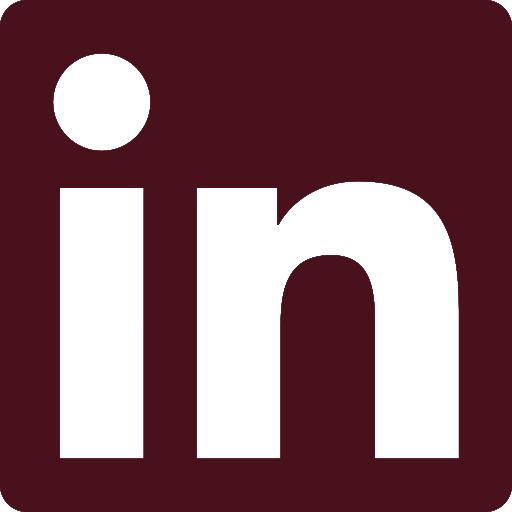
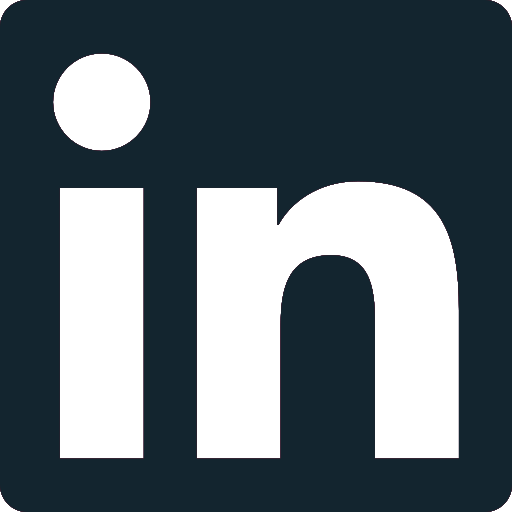
sadly this is the right color

diff --git a/styles.css b/styles.css
@@ -89,7 +89,7 @@ p {
 
 .linkcard-link {
 	font-size: 1.6vw;
-	color: #49111C;
+	color: #13252F;
 	text-decoration: none;
 	font-family: "Nunito Sans";
 }
